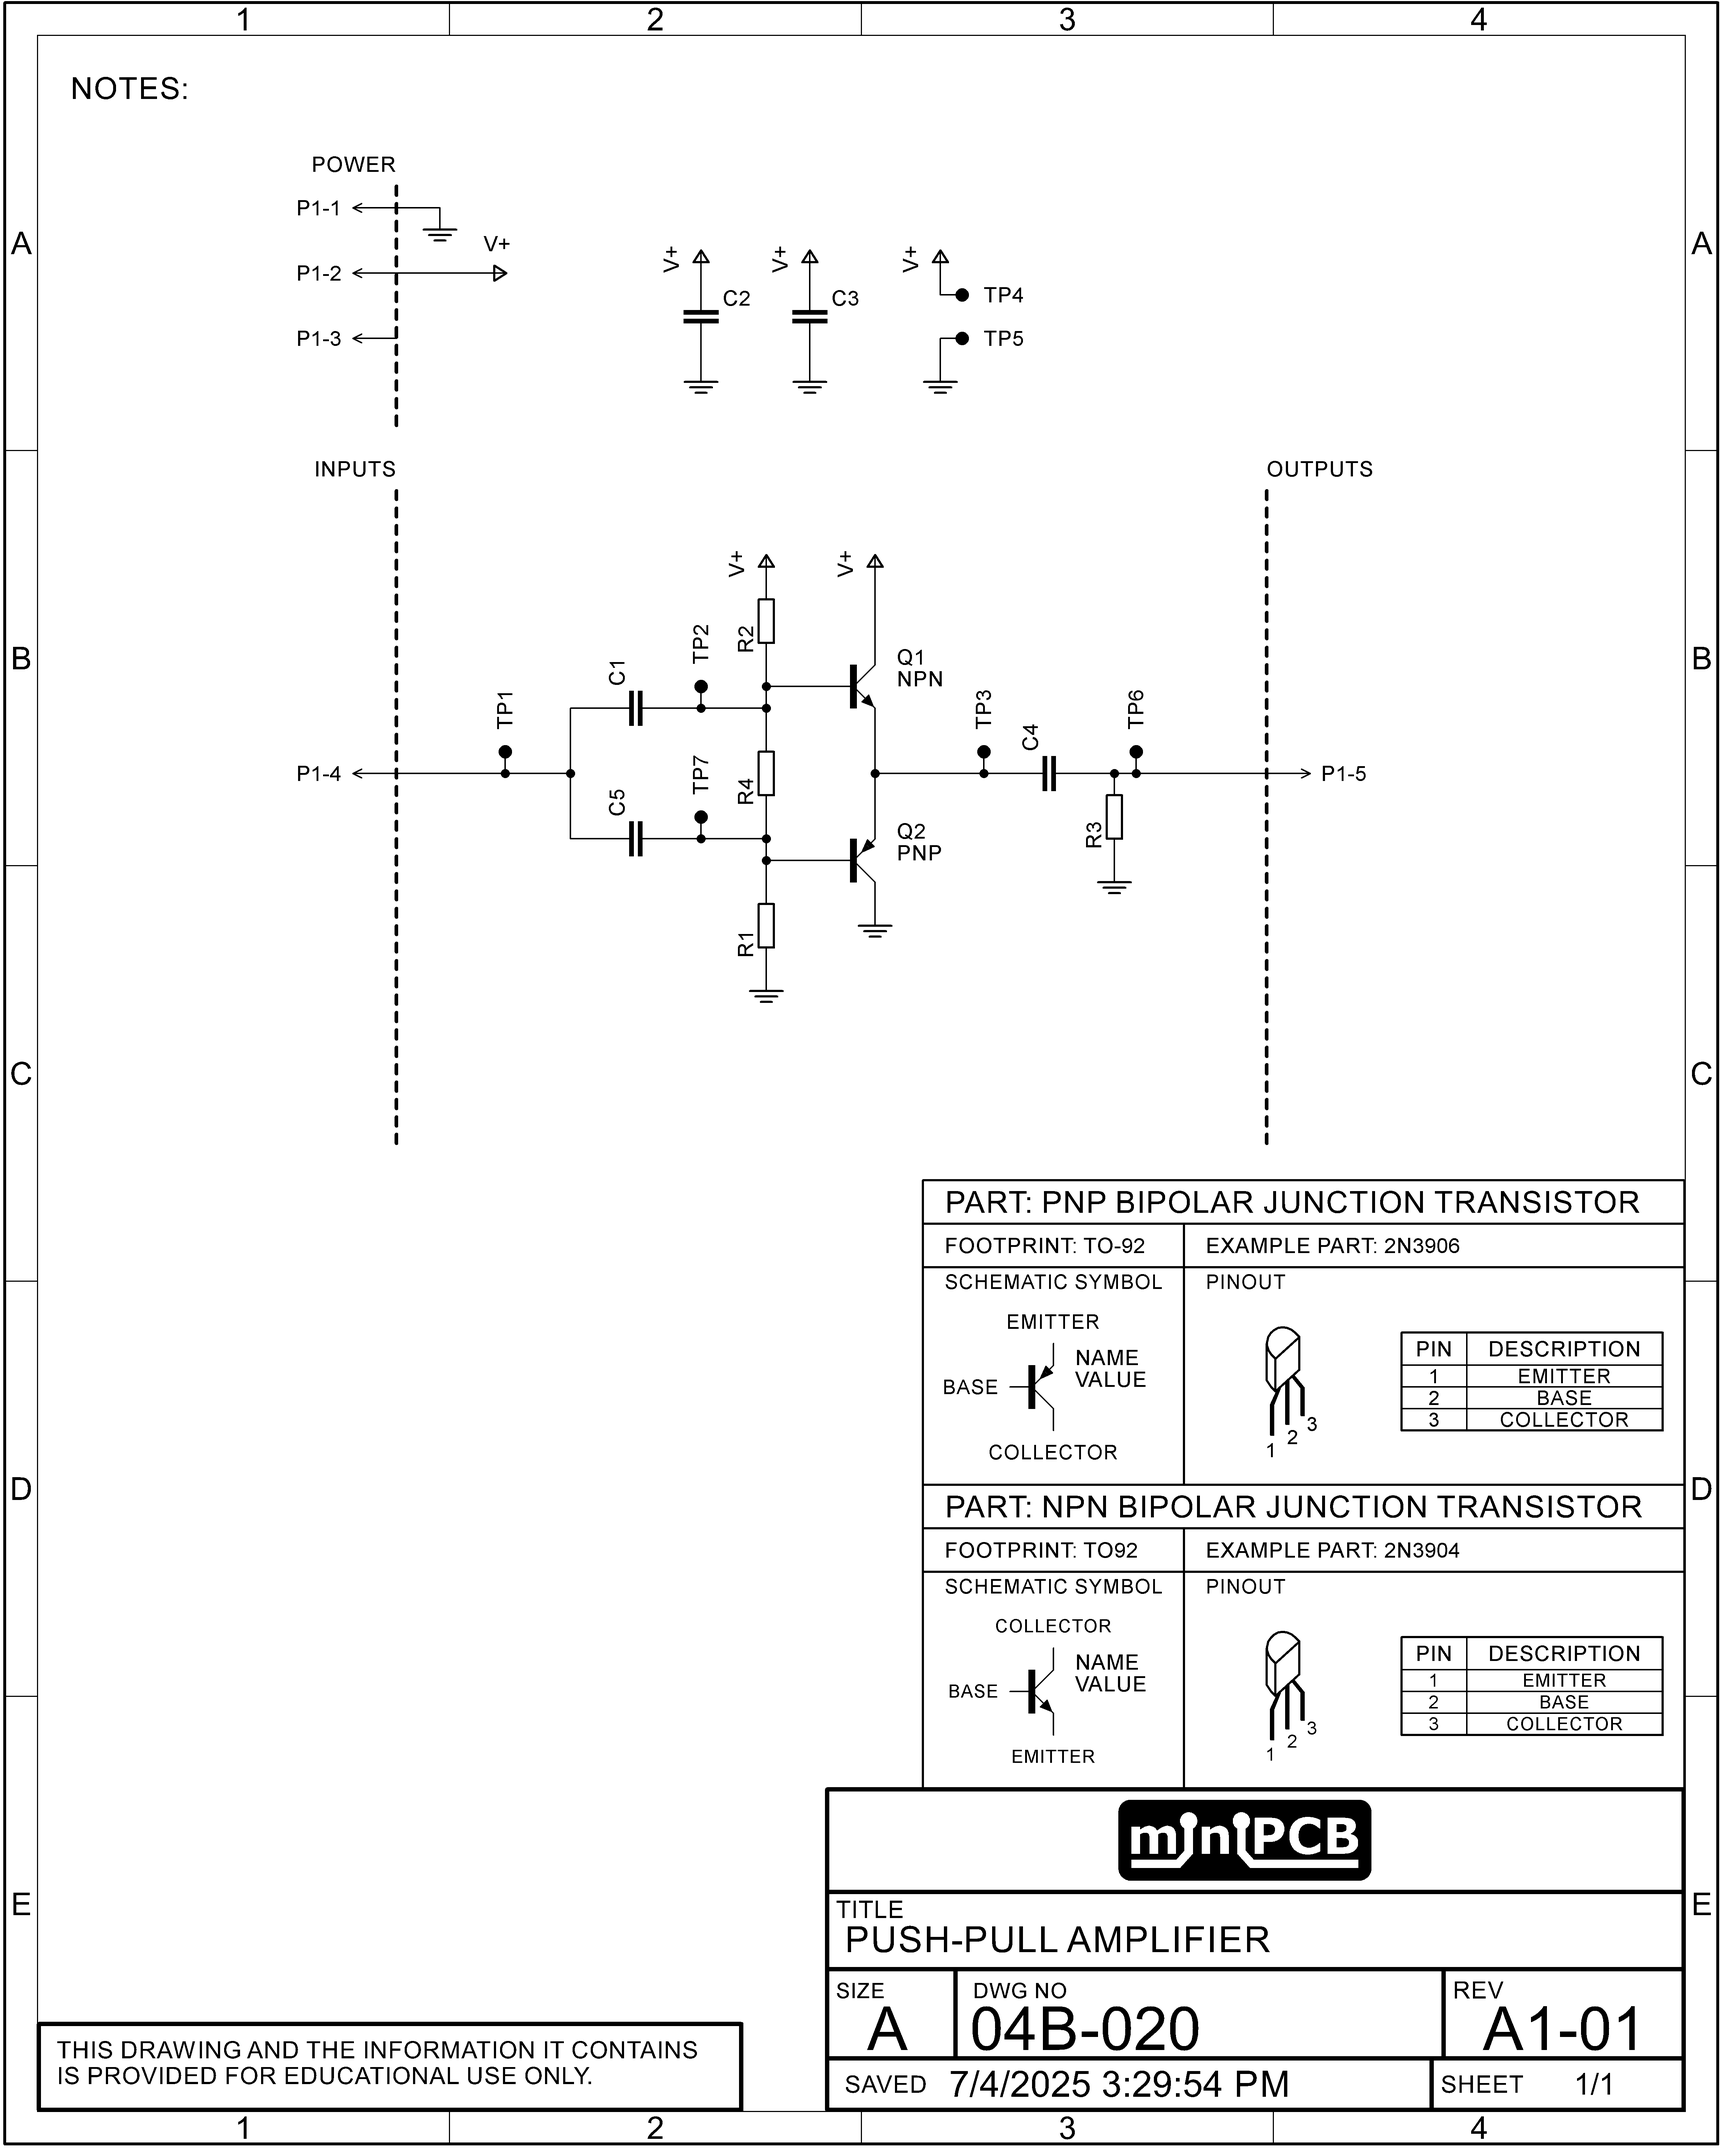
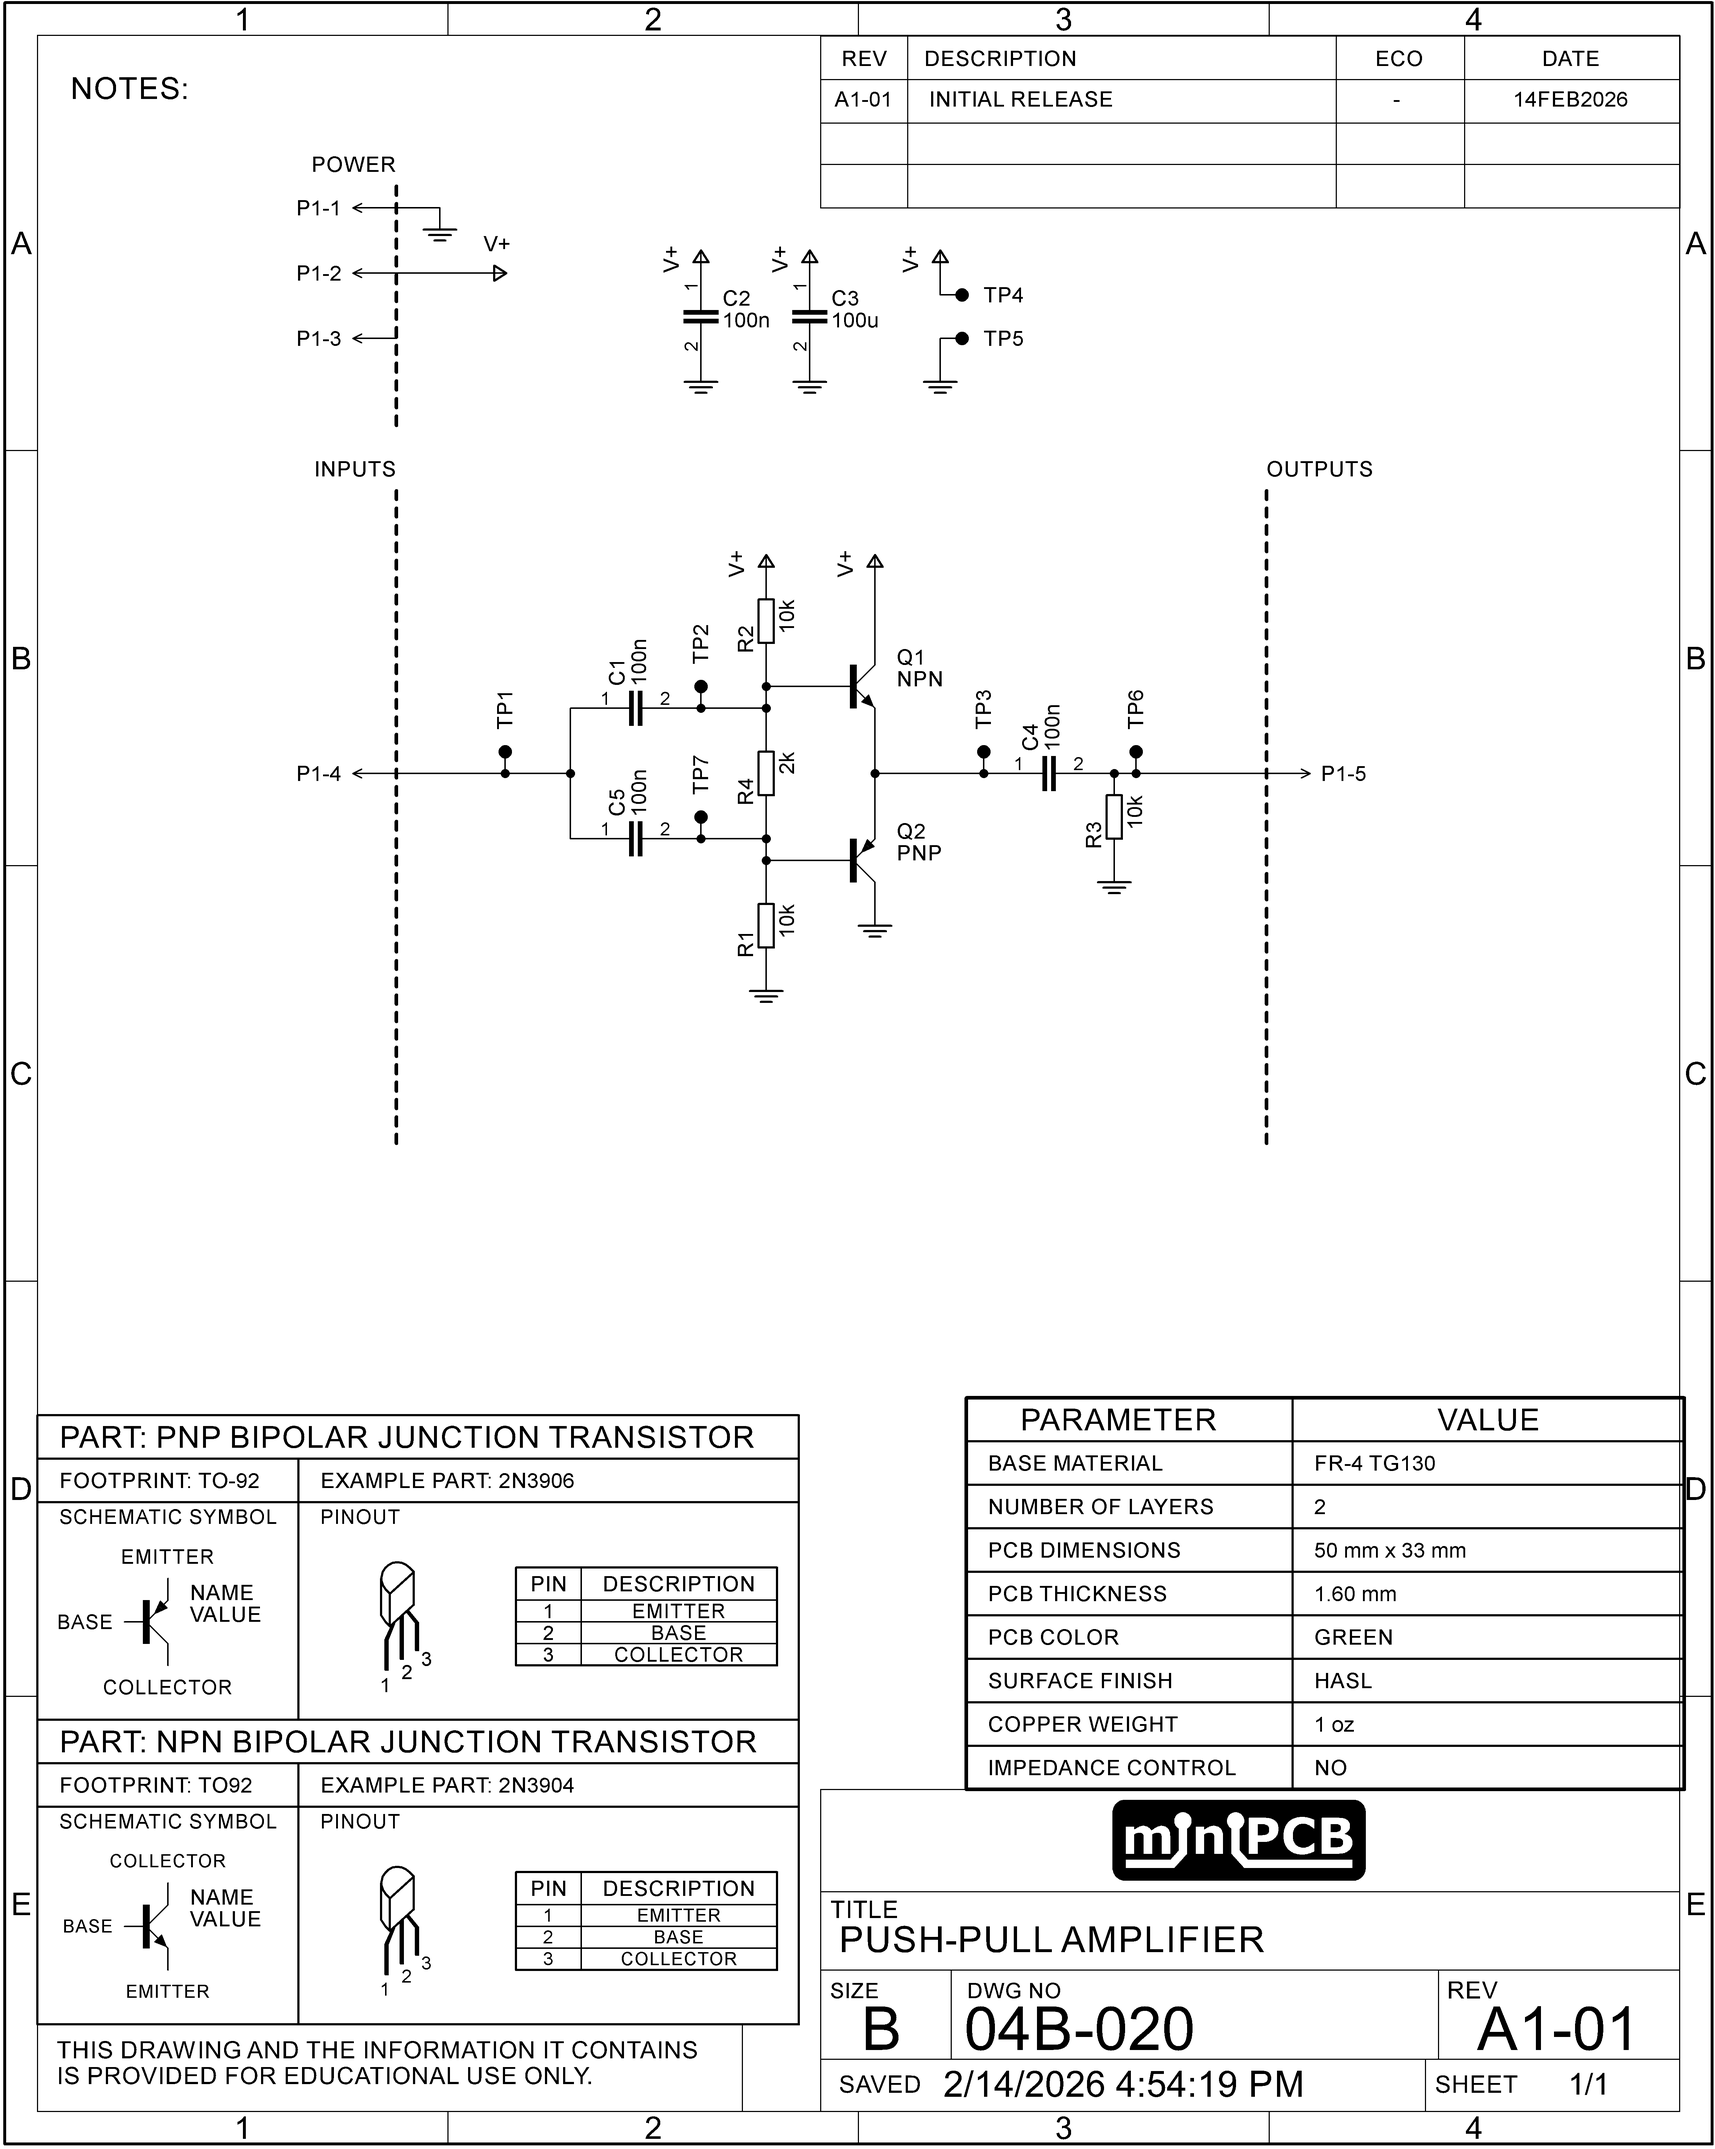
Added part values

diff --git a/md/04B-020_A1-01_sch.md b/md/04B-020_A1-01_sch.md
@@ -13,67 +13,67 @@
 | PCB Dimensions   | 50 mm x 33 mm |
 | Pieces per Panel | 6 |
 
-# Netlist (Schematic)
+# Netlist
 
 | Net | Part | Pad | Pin | Sheet |
 |-----|------|-----|-----|-------|
-| GND | C2 | - | - | 1 |
-| GND | C3 | - | - | 1 |
+| EMITTERS | TP3 | 1 | 1 | 1 |
+| EMITTERS | C4 | 1 | 1 | 1 |
+| EMITTERS | Q1 | E | E | 1 |
+| EMITTERS | Q2 | E | E | 1 |
+| GND | C2 | 2 | 2 | 1 |
+| GND | C3 | 2 | 2 | 1 |
 | GND | R1 | 1 | 1 | 1 |
 | GND | TP5 | 1 | 1 | 1 |
 | GND | P1 | 1 | GND (1) | 1 |
 | GND | R3 | 1 | 1 | 1 |
 | GND | Q2 | C | C | 1 |
-| N$2 | C1 | - | - | 1 |
-| N$2 | TP2 | 1 | 1 | 1 |
-| N$2 | Q1 | B | B | 1 |
-| N$2 | R2 | 1 | 1 | 1 |
-| N$2 | R4 | 2 | 2 | 1 |
-| N$3 | Q2 | B | B | 1 |
-| N$3 | R1 | 2 | 2 | 1 |
-| N$3 | R4 | 1 | 1 | 1 |
-| N$3 | C5 | - | - | 1 |
-| N$3 | TP7 | 1 | 1 | 1 |
-| N$7 | P1 | 5 | OUTPUT (5) | 1 |
-| N$7 | C4 | - | - | 1 |
-| N$7 | R3 | 2 | 2 | 1 |
-| N$7 | TP6 | 1 | 1 | 1 |
-| N$9 | TP3 | 1 | 1 | 1 |
-| N$9 | C4 | + | + | 1 |
-| N$9 | Q1 | E | E | 1 |
-| N$9 | Q2 | E | E | 1 |
-| N$10 | TP1 | 1 | 1 | 1 |
-| N$10 | C1 | + | + | 1 |
-| N$10 | P1 | 4 | INPUT (4) | 1 |
-| N$10 | C5 | + | + | 1 |
+| INPUT | TP1 | 1 | 1 | 1 |
+| INPUT | C1 | 1 | 1 | 1 |
+| INPUT | P1 | 4 | INPUT (4) | 1 |
+| INPUT | C5 | 1 | 1 | 1 |
+| OUTPUT | P1 | 5 | OUTPUT (5) | 1 |
+| OUTPUT | C4 | 2 | 2 | 1 |
+| OUTPUT | R3 | 2 | 2 | 1 |
+| OUTPUT | TP6 | 1 | 1 | 1 |
+| Q1_BASE | C1 | 2 | 2 | 1 |
+| Q1_BASE | TP2 | 1 | 1 | 1 |
+| Q1_BASE | Q1 | B | B | 1 |
+| Q1_BASE | R2 | 1 | 1 | 1 |
+| Q1_BASE | R4 | 2 | 2 | 1 |
+| Q2_BASE | Q2 | B | B | 1 |
+| Q2_BASE | R1 | 2 | 2 | 1 |
+| Q2_BASE | R4 | 1 | 1 | 1 |
+| Q2_BASE | C5 | 2 | 2 | 1 |
+| Q2_BASE | TP7 | 1 | 1 | 1 |
 | V+ | TP4 | 1 | 1 | 1 |
 | V+ | R2 | 2 | 2 | 1 |
 | V+ | P1 | 2 | V+ (2) | 1 |
-| V+ | C2 | + | + | 1 |
-| V+ | C3 | + | + | 1 |
+| V+ | C2 | 1 | 1 | 1 |
+| V+ | C3 | 1 | 1 | 1 |
 | V+ | Q1 | C | C | 1 |
 
-# Partlist (Schematic)
+# Partlist
 
 | REF DES | PART TYPE | VALUE / DESCRIPTION |
 |---------|-----------|---------------------|
-| C1 | Capacitor |  |
-| C2 | Capacitor |  |
-| C3 | Capacitor |  |
-| C4 | Capacitor |  |
-| C5 | Capacitor |  |
-| P1 | Connector (plug) |  |
+| C1 | Capacitor | 100n |
+| C2 | Capacitor | 100n |
+| C3 | Capacitor | 100u |
+| C4 | Capacitor | 100n |
+| C5 | Capacitor | 100n |
+| P1 | Connector (plug) | MAIN_INTERFACE |
 | Q1 | Transistor | NPN |
 | Q2 | Transistor | PNP |
-| R1 | Resistor |  |
-| R2 | Resistor |  |
-| R3 | Resistor |  |
-| R4 | Resistor |  |
+| R1 | Resistor | 10k |
+| R2 | Resistor | 10k |
+| R3 | Resistor | 10k |
+| R4 | Resistor | 2k |
 | TP1 | Test point |  |
 | TP2 | Test point |  |
 | TP3 | Test point |  |
-| TP4 | Test point |  |
-| TP5 | Test point |  |
+| TP4 | Test point | V+ |
+| TP5 | Test point | GND |
 | TP6 | Test point |  |
 | TP7 | Test point |  |
 

diff --git a/md/04B-015_A1-01_sch.md b/md/04B-015_A1-01_sch.md
@@ -62,7 +62,7 @@
 | C4 | Capacitor | 100n |
 | D1 | Diode | 1N4148 |
 | D2 | Diode | 1N4148 |
-| P1 | Connector (plug) |  |
+| P1 | Connector (plug) | MAIN_INTERFACE |
 | Q1 | Transistor | NPN |
 | Q2 | Transistor | PNP |
 | R1 | Resistor | 10k |
